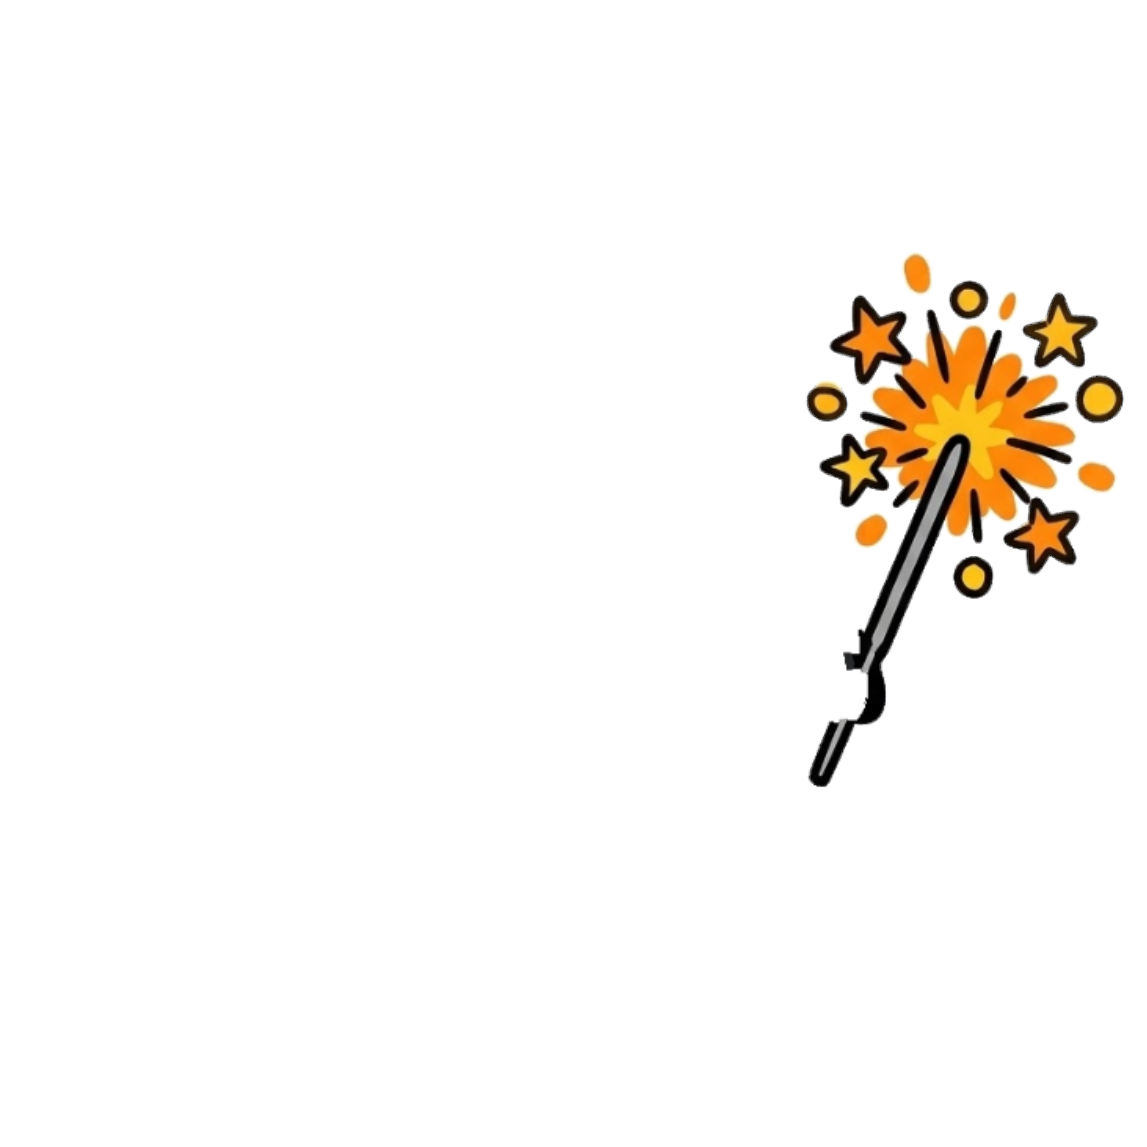
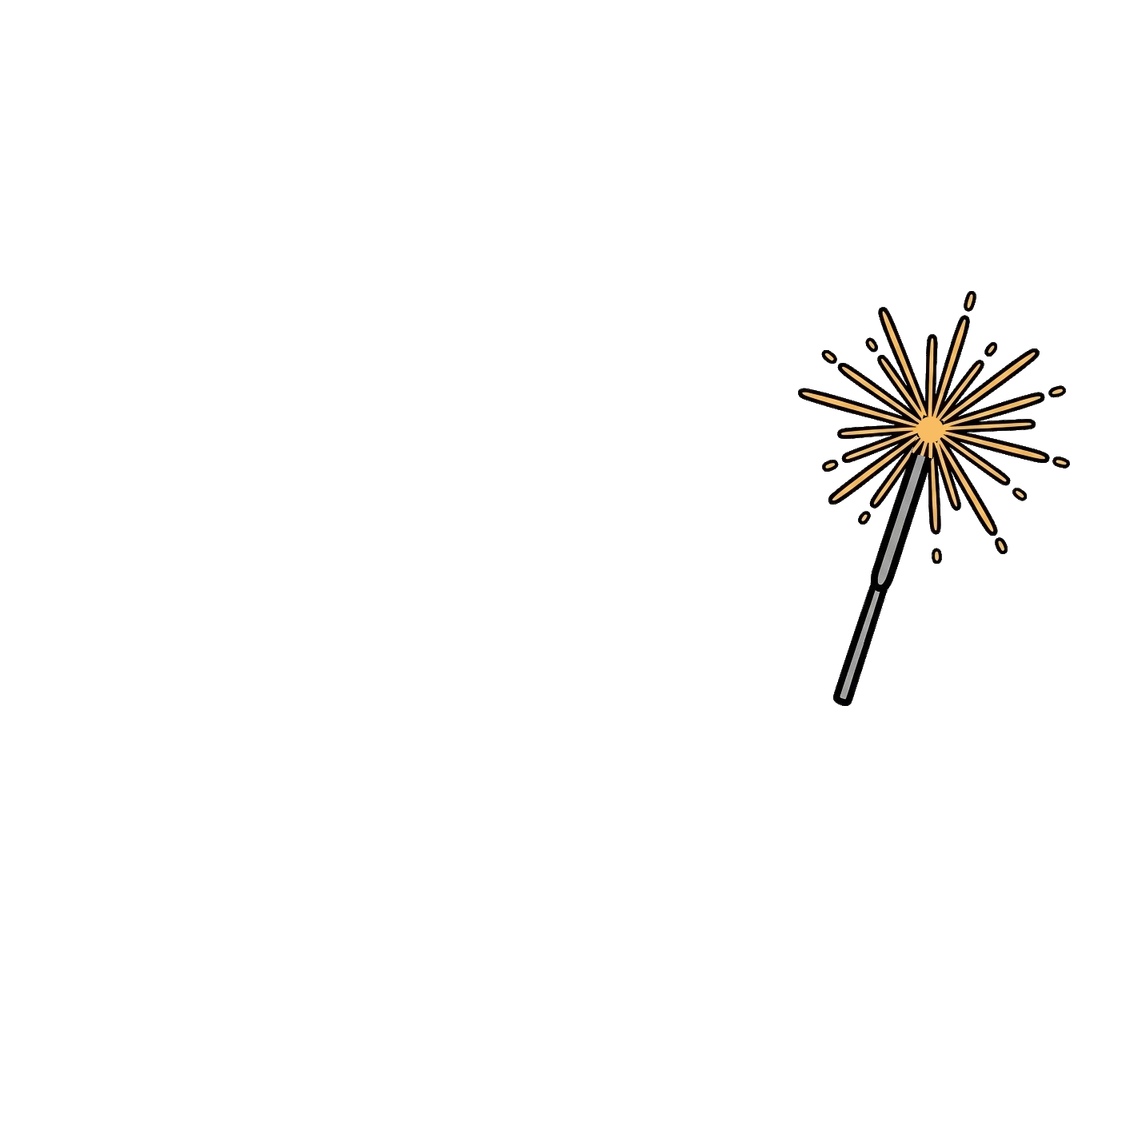
Ship rebuilt sparkler_right_hand: radiating sparks, stick from the flipper tip

Changed region(s): [[0.7018, 0.2136, 0.9765, 0.7018]]

diff --git a/docs/HANDOFF.md b/docs/HANDOFF.md
@@ -2283,7 +2283,7 @@ mismatched strokes), then fix the flagged existing traits and put them on a vett
 
 ### Ask the owner first (next session start)
 
-1. Sparkler verdict: C (0.8x) or D (0.7x), `.trait-work/fixes-25/cand-sparkler-rays-C.png` / `-D.png` (sent as
+1. DONE: sparkler C shipped (owner let me pick). Was: C (0.8x) or D (0.7x), `.trait-work/fixes-25/cand-sparkler-rays-C.png` / `-D.png` (sent as
    `sparkler-rays-3`). Radiating spark lines, stick end on the flipper tip, stick runs up to the spark ball (owner asked
    for exactly that, "even closer"). Ship the pick as `public/traits/trait-sparkler_right_hand.png` (run
    `.trait-work/defringe.mjs --inplace` on it), tests, push. If more tweaks: source `solo/cut-sparkler-rays.png`,
